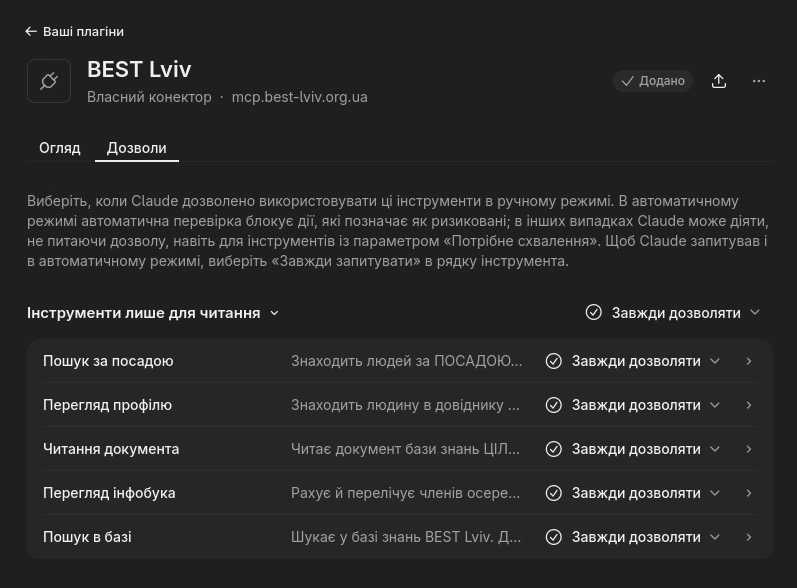
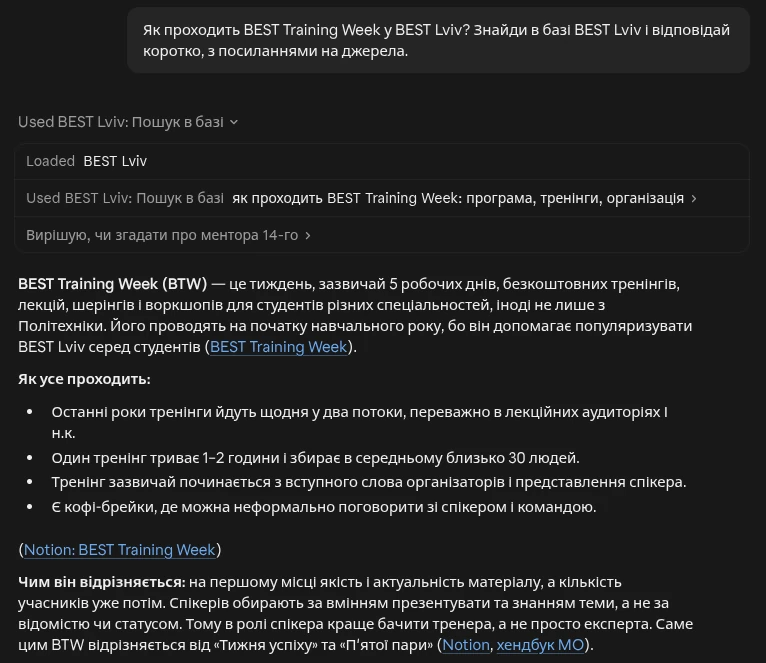
Document drive configuration and refresh the README

diff --git a/README.md b/README.md
@@ -10,42 +10,46 @@
 
 ## Demo
 
-Scribe answers a question about BEST Lviv in Ukrainian and links to the documents it used.
+Scribe answers questions about BEST Lviv in Ukrainian and links to the documents it used. The same knowledge base is available in Telegram and, through MCP, in assistants such as Claude.
 
-<p align="center">
-  <img src="docs/assets/demo-telegram.webp" width="380" alt="Telegram exchange in Ukrainian with a knowledge-base search and three source links">
-</p>
-
-<details>
-<summary>MCP tools in Claude</summary>
-
-<img src="docs/assets/demo-mcp.webp" width="680" alt="Claude showing the five read-only tools exposed by the Scribe MCP connector">
-
-</details>
+<table>
+  <tr>
+    <th>Telegram</th>
+    <th>Claude via MCP</th>
+  </tr>
+  <tr>
+    <td valign="top"><img src="docs/assets/demo-telegram.webp" width="340" alt="Telegram exchange in Ukrainian: the bot searches the knowledge base, answers what BEST Lviv is and lists three source links"></td>
+    <td valign="top"><img src="docs/assets/demo-mcp.webp" width="460" alt="Claude calls the Scribe knowledge-base search tool and answers how BEST Training Week works, with links to Notion pages"></td>
+  </tr>
+</table>
 
 ## Architecture
 
 ```mermaid
-flowchart TD
-    T[Telegram user] --> B[Telegram bot]
-    B --> A[FastAPI backend]
-    D[Notion and Drive] -->|Document sync| A
-    C[MCP client] --> M[MCP service]
+flowchart LR
+    TG([Telegram member]) --> BOT[Telegram bot] --> API[Backend<br/>FastAPI]
+    API <-->|tool calls| LLM[Answer model<br/>agy or Gemini API]
+    MC([Claude or another<br/>MCP client]) -->|OAuth| MCP[MCP service]
 
-    A --> Q[(Qdrant)]
-    A --> P[(PostgreSQL)]
-    A --> U[(MongoDB)]
-    M --> Q
-    M --> P
-    M --> U
+    API --> T{{Shared tools<br/>search · read · directory<br/>limited to member's drives}}
+    MCP --> T
+
+    T --> MG[(MongoDB<br/>member directory)]
+    T --> PG[(PostgreSQL<br/>document text)]
+    T --> QD[(Qdrant<br/>chunk vectors)]
+
+    SRC[Notion<br/>Google Drive] -->|sync: extract, OCR| PG
+    PG -->|chunk, embed<br/>with Gemini| QD
 ```
 
-The Telegram bot streams answers from the FastAPI backend. MCP clients connect directly to the OAuth-protected MCP service for search, document reads and directory lookups.
+The Telegram bot streams answers from the backend, which runs the answer model and executes its tool calls. MCP clients bring their own model and call the same tools through the OAuth-protected MCP service.
 
-During sync, the backend extracts and chunks content from Notion and Google Drive, embeds the chunks and indexes them in Qdrant. PostgreSQL stores extracted documents for both services to read, plus Telegram chat history, linked user accounts and MCP OAuth data. Both services use MongoDB for read-only member lookups.
+During sync, the backend extracts content from Notion and Google Drive, stores the text in PostgreSQL, splits it into chunks, embeds them with Gemini and indexes them in Qdrant. PostgreSQL also keeps Telegram chat history, linked user accounts and MCP OAuth data. MongoDB holds the read-only member directory.
 
-- **Rare names.** A single query embedding drives semantic search and extra queries filtered to individual rare names. Each filter gives matching chunks their own candidate pool before the backend deduplicates and ranks them. [Search implementation](backend/src/vectorstore/qdrant.py#L41-L87)
-- **Index updates.** A sync copies unchanged points into a new collection and embeds changed chunks. The live search alias switches after the replacement collection is populated and passes a size check. [Reindexing](backend/src/vectorstore/qdrant.py#L136-L156) · [Alias switch](backend/src/vectorstore/qdrant.py#L188-L198)
+Search in Telegram and MCP uses the drives available to the member. The Telegram command `/drives` shows their drive access.
+
+- **Rare names.** A single query embedding drives semantic search and extra queries filtered to individual rare names within the member’s allowed sources. Each filter gives matching chunks their own candidate pool before the backend deduplicates and ranks them. [Search implementation](backend/src/vectorstore/qdrant.py#L86-L144)
+- **Index updates.** A sync copies unchanged points into a new collection and embeds changed chunks. The live search alias switches after the replacement collection is populated and passes a size check. [Reindexing](backend/src/vectorstore/qdrant.py#L260-L280) · [Alias switch](backend/src/vectorstore/qdrant.py#L323-L333)
 
 The stack uses FastAPI, aiogram, LlamaIndex, Qdrant, PostgreSQL and MongoDB. The assistant began as an n8n workflow before its retrieval and indexing moved into Python. [Original n8n project](https://github.com/spiowm/n8n-infrastructure)
 
@@ -62,6 +66,7 @@ Fill in the following values in `.env`. The template provides a local `MCP_PUBLI
 | Service | Required values |
 | --- | --- |
 | Telegram | `BOT_TOKEN` |
+| Internal API | `INTERNAL_API_TOKEN` (shared by the backend and bot) |
 | PostgreSQL | `POSTGRES_PASSWORD` |
 | Notion | `NOTION_TOKEN` |
 | Google Drive | `GOOGLE_DRIVE_CREDENTIALS_JSON` (base64-encoded service-account JSON) |
@@ -79,11 +84,11 @@ Compose applies database migrations through the backend service. The internal AP
 
 The default Telegram answer provider is Antigravity CLI (`agy`). Sign in using the [container keyring procedure](docs/deployment.md#sign-in-to-agy). Gemini API fallback is disabled by default. Document embeddings, query embeddings and Drive OCR use the Gemini API independently of the answer provider.
 
-After configuring the sources, run the sync endpoints on the internal API to populate the index. Sync can consume Gemini API quota.
+After configuring the sources, export the same `INTERNAL_API_TOKEN` used by Compose in your shell and run the sync endpoints. Sync can consume Gemini API quota.
 
 ```bash
-curl --fail-with-body -X POST http://localhost:8000/sync/notion
-curl --fail-with-body -X POST http://localhost:8000/sync/gdrive
+curl --fail-with-body -X POST -H "X-Internal-Token: $INTERNAL_API_TOKEN" http://localhost:8000/sync/notion
+curl --fail-with-body -X POST -H "X-Internal-Token: $INTERNAL_API_TOKEN" http://localhost:8000/sync/gdrive
 ```
 
 For host development with `uv`, Coolify configuration and service troubleshooting, see [Deployment](docs/deployment.md).

diff --git a/docs/deployment.md b/docs/deployment.md
@@ -4,18 +4,29 @@ The [README](../README.md#setup) lists the variables required by [Compose](../do
 
 ## Source configuration
 
-The application settings include defaults for the original BEST Lviv installation. For a separate instance, pass these settings through a Compose override or set them in the environment of the corresponding host processes. Notion sync uses the pages visible to the integration token. Give the Google service account access to the selected Drive folders.
+Set the Drive source IDs and any group mappings through Compose or in the environment of the corresponding host processes. Notion sync uses the pages visible to the integration token and any databases configured for table ingestion. Give the Google service account access to the selected Drive folders.
 
 | Setting | Services | Value |
 | --- | --- | --- |
-| `GOOGLE_DRIVE_FOLDER_IDS` | Backend | Comma-separated Drive root folder IDs |
+| `GOOGLE_DRIVE_GENERAL_ID` | Backend | Shared drive indexed as general |
+| `GOOGLE_DRIVE_GENERAL_FOREIGN` | Backend | Comma-separated IDs of other drives whose files can be indexed as general through shortcuts on the general drive |
+| `GOOGLE_DRIVE_IDS` | Backend, MCP | Comma-separated IDs for additional work drives |
+| `GOOGLE_DRIVE_GENERAL_FOREIGN_LABEL` | Backend | Optional display label for the additional general sources |
+| `GOOGLE_DRIVE_FULL_MEMBERS_GROUP` | Backend, MCP | Optional Drive group granted by Full or Alumni status |
+| `GOOGLE_DRIVE_ADMIN_GROUP` | Backend, MCP | Optional infrastructure group omitted from access suggestions |
+| `GOOGLE_DRIVE_PAUSED_IDS` | Backend, MCP | Comma-separated work drive IDs to suspend |
+| `NOTION_DATABASE_IDS` | Backend | Comma-separated Notion databases to index as tables, optionally using `id:relation-property` to group rows |
 | `MONGO_DB`, `MONGO_USERS_COLLECTION` | Backend, MCP | Database and collection for member lookups |
 | `R2_BUCKET` | Backend | Bucket used to serve meme images |
 | `PUBLIC_URL` | MCP | Public MCP base URL. The service gets it from `MCP_PUBLIC_URL` in the checked-in Compose file. |
 | `TELEGRAM_BOT_USERNAME` | MCP | Username of the Telegram bot that issues MCP login codes |
 | `MCP_URL` | Bot | Public URL including `/mcp` |
 
-Use a MongoDB account with read-only access to the member directory. Keep PostgreSQL, Qdrant and the internal backend on loopback or a trusted private network. The backend sync routes rely on this network boundary. Expose only the OAuth-protected MCP service to external clients.
+Use a MongoDB account with read-only access to the member directory. Keep PostgreSQL, Qdrant and the internal backend on loopback or a trusted private network. The backend also checks `X-Internal-Token`. Generate a shared value for the backend and bot with `openssl rand -hex 32`. Expose only the OAuth-protected MCP service to external clients.
+
+Set `GOOGLE_DRIVE_GENERAL_ID` before syncing Drive. Indexed drive access depends on the configured group mappings and the permissions returned by Drive. Review those settings before syncing work drives. Keep the full intended source list during sync, since removing a source from the configuration can remove its indexed documents.
+
+To pause a work drive, keep its ID in `GOOGLE_DRIVE_IDS` and add it to `GOOGLE_DRIVE_PAUSED_IDS` for both the backend and MCP. The services hide that drive from lookup and settings while sync preserves its existing extracted text and vectors. Remove the ID from the pause list and run an incremental sync to bring the drive up to date. The common sources use a shared scope and require separate configuration.
 
 ## Coolify
 
@@ -26,6 +37,12 @@ Use a MongoDB account with read-only access to the member directory. Keep Postgr
 The checked-in Compose file passes through the settings it lists under `environment`. Add other overrides under the service that consumes them, or confirm Coolify has injected them into that service. Use `AGY_MODEL` to select the chat model. Set `AGY_FALLBACK_TO_API=true` only to opt in to Gemini API fallback. The separate `LLM_PROVIDER=gemini` setting selects Gemini API answers directly. [Backend settings](../backend/src/config.py)
 
 Review the application's deployment policy before pushing changes to its watched branch. [Coolify automatic deployments](https://coolify.io/docs/applications/deployments/automatic-deployments)
+
+### Organization context
+
+Use the optional backend variable `ORG_CONTEXT` for background and terminology suitable for all bot users. The backend adds it to the Telegram answer prompt for both generation providers. MCP uses its own server and tool descriptions.
+
+In Coolify's Normal view, enter the value as UTF-8 text, select **Multiline**, enable **Runtime** and disable **Build time**. A blank value uses the shared prompt on its own. After recreating the backend, verify the line breaks in the container without printing the value in logs. [Coolify environment variables](https://coolify.io/docs/applications/configuration/environment-variables)
 
 ## Sign in to agy
 
